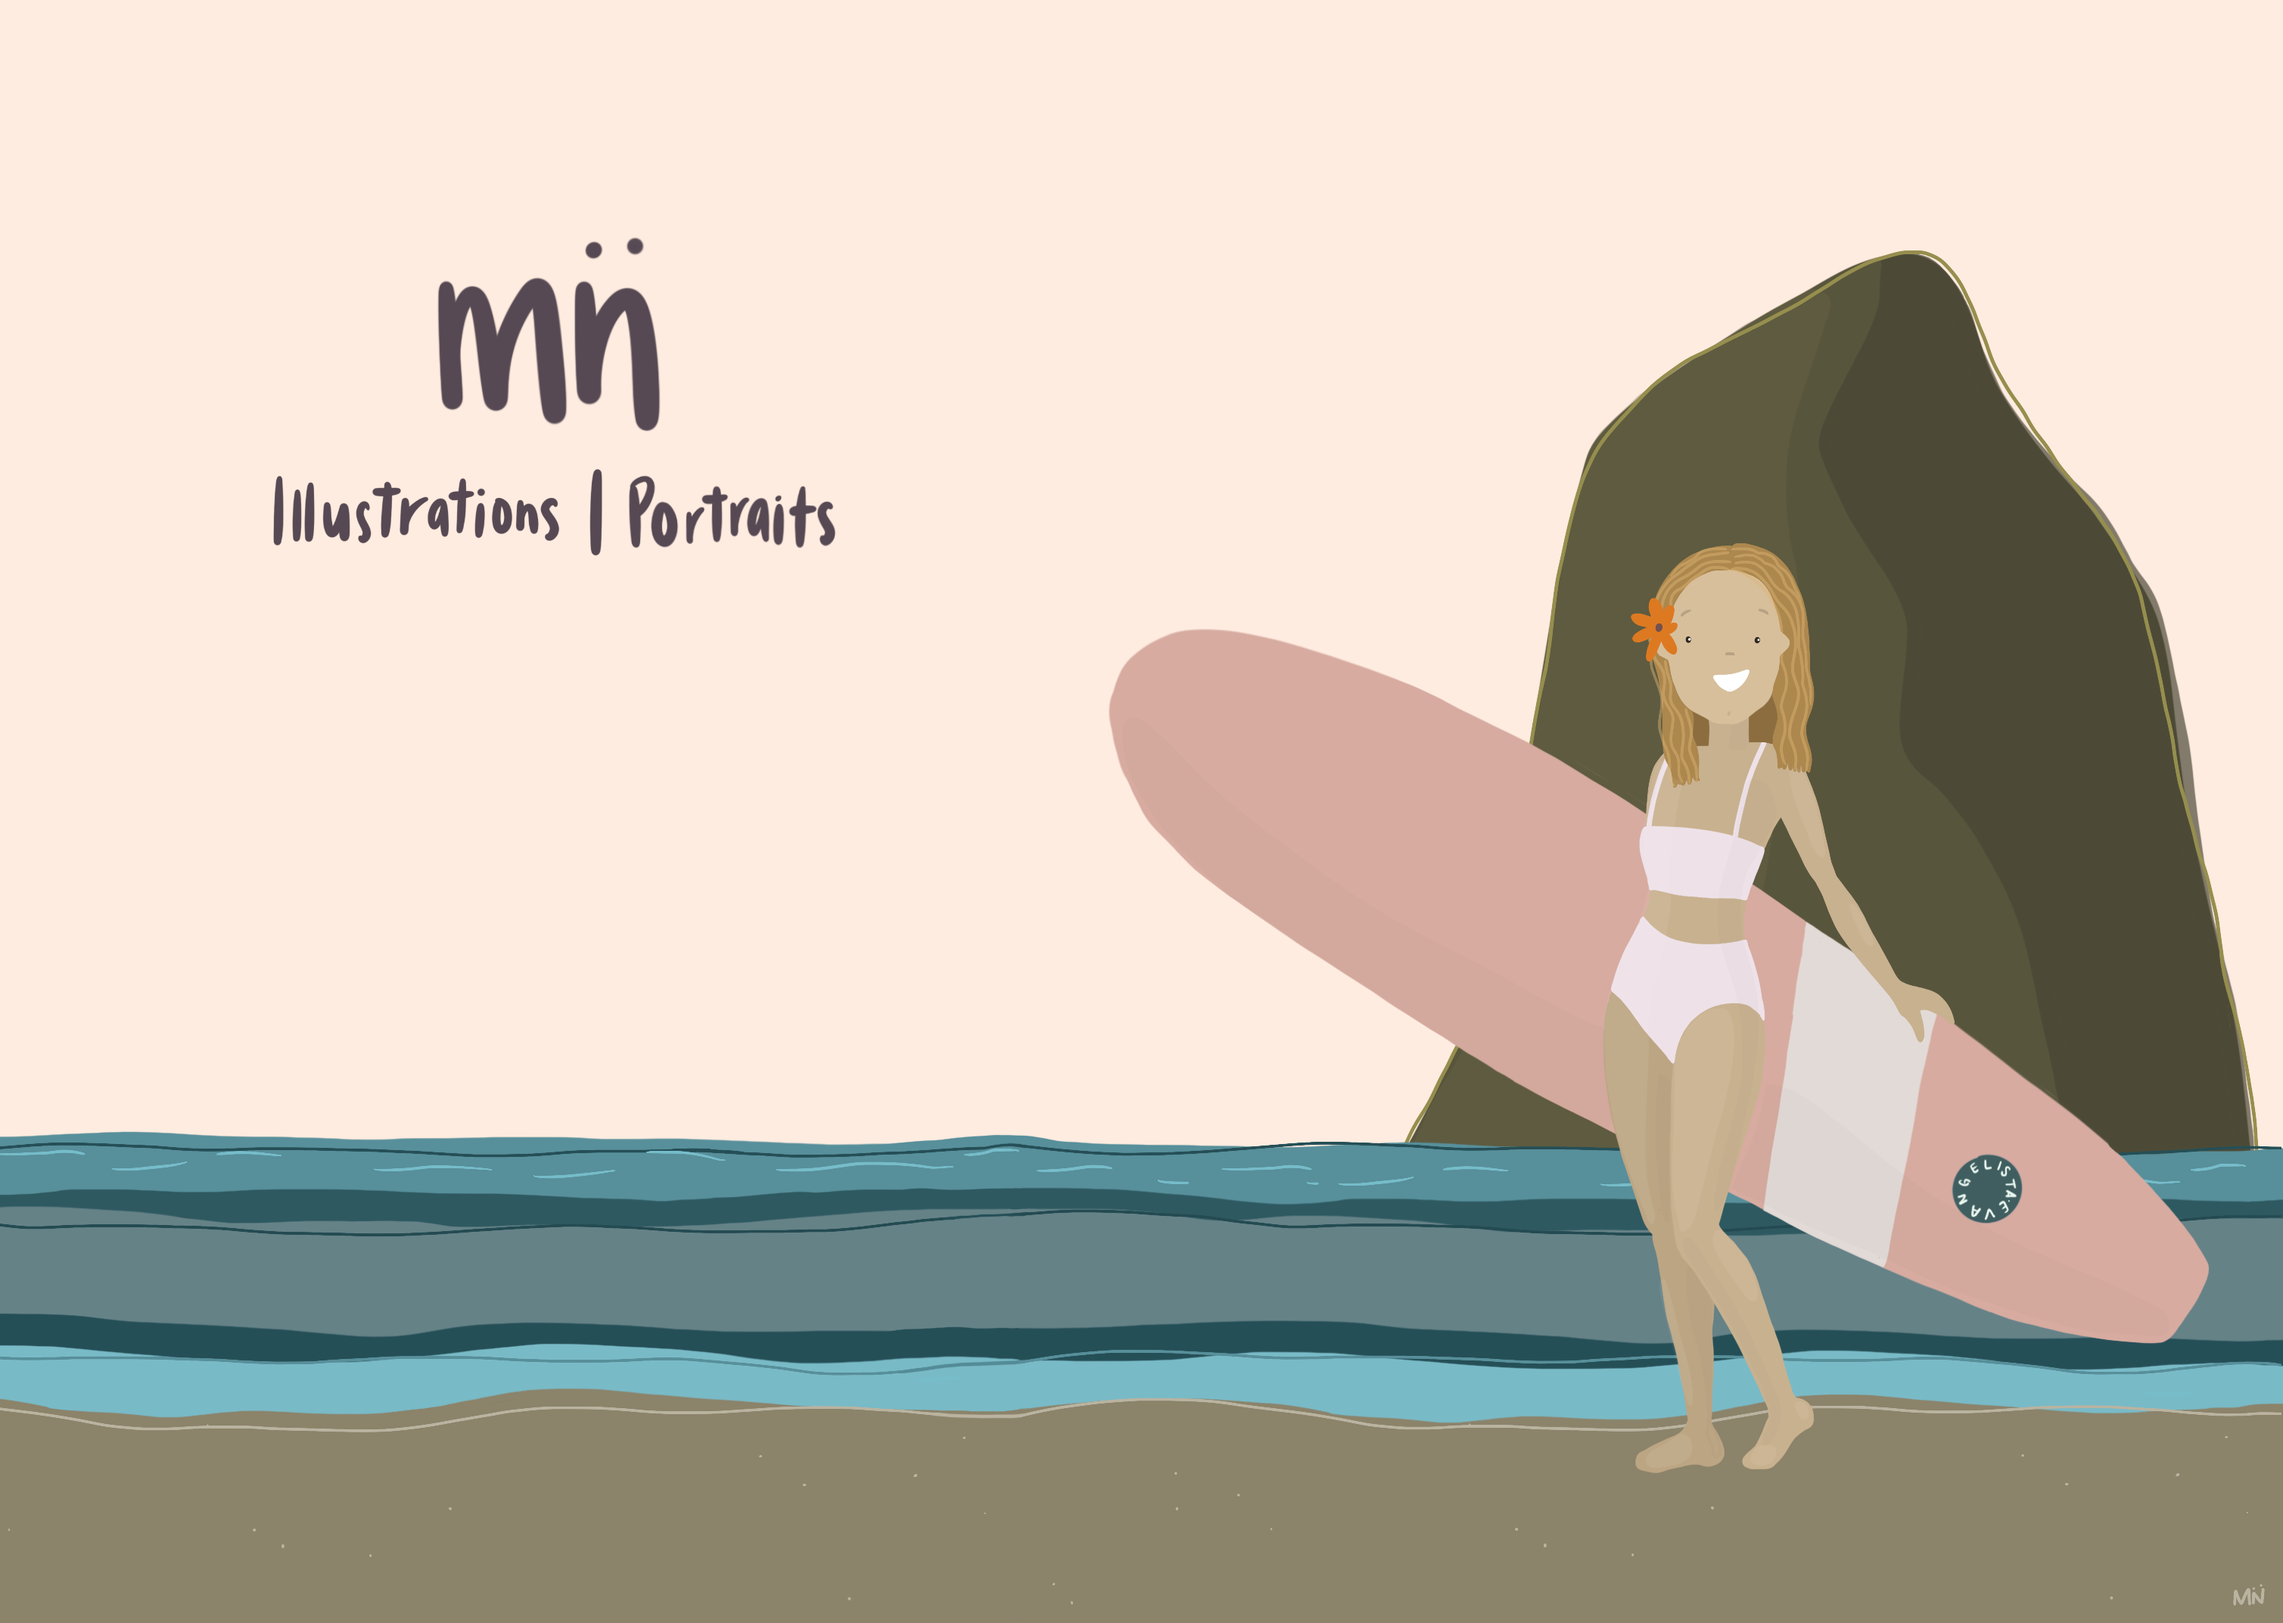
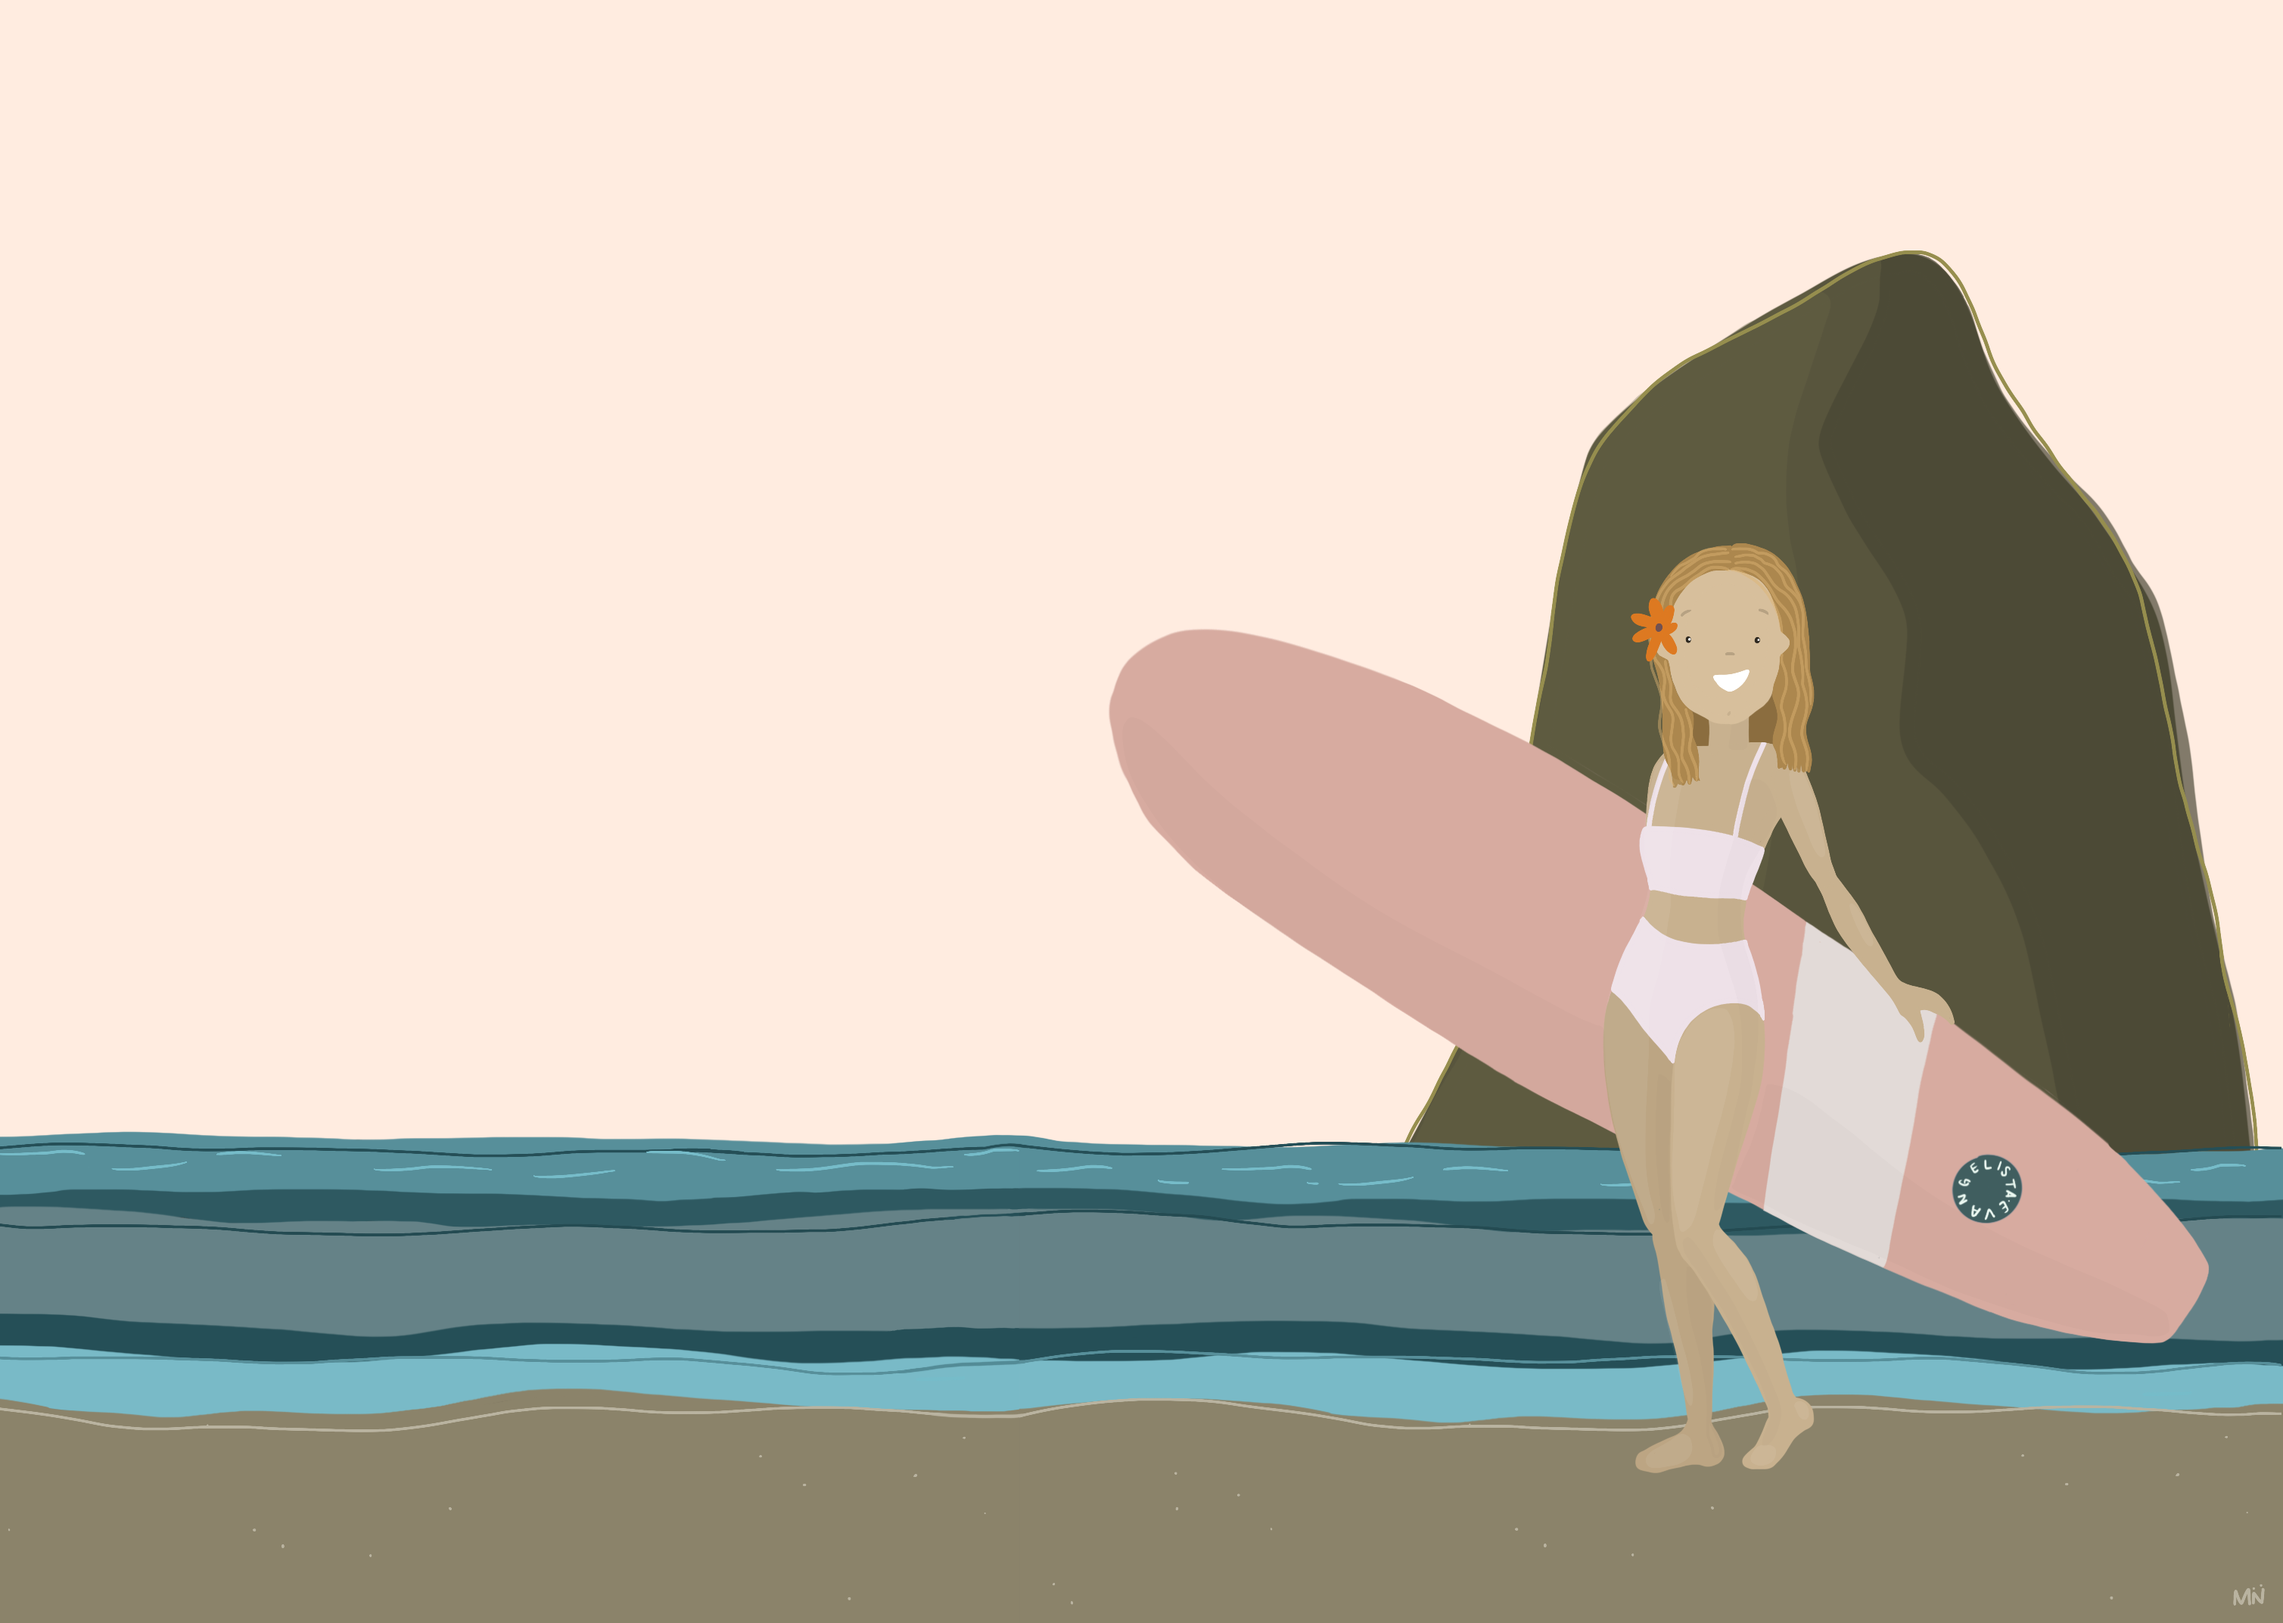
nav & styling continued

Changed region(s): [[0.0935, 0.1249, 0.3739, 0.3436]]

diff --git a/ui/src/App.tsx b/ui/src/App.tsx
@@ -1,11 +1,25 @@
 import React from "react";
+// Routing
+import { Routes, Route } from "react-router-dom";
+// Components
+import About from "./components/About";
+import Home from "./components/Home";
 import Navbar from "./components/Navbar";
+import Portfolio from "./components/Portfolio";
+import Prices from "./components/Prices";
+// Styles
 import "./styles/App.module.css";
 
 const App = (): JSX.Element => {
   return (
     <div className="App">
       <Navbar />
+      <Routes>
+        <Route path="/" element={<Home />} />
+        <Route path="/portfolio" element={<Portfolio />} />
+        <Route path="/prices" element={<Prices />} />
+        <Route path="/about" element={<About />} />
+      </Routes>
     </div>
   );
 };

diff --git a/ui/src/components/Navbar.tsx b/ui/src/components/Navbar.tsx
@@ -1,14 +1,27 @@
 import React from "react";
+// Styles
 import "../styles/Navbar.module.css";
+// Routing
+import { Link } from "react-router-dom";
+import LogoOnPage from "./LogoOnPage";
 
 const Navbar = (): JSX.Element => {
   return (
     <nav>
+      <LogoOnPage />
       <ul>
-        <li>Home</li>
-        <li>Portfolio</li>
-        <li>Prices</li>
-        <li>About</li>
+        <li>
+          <Link to="/">Home</Link>
+        </li>
+        <li>
+          <Link to="/portfolio">Portfolio</Link>
+        </li>
+        <li>
+          <Link to="/prices">Prices</Link>
+        </li>
+        <li>
+          <Link to="/about">About</Link>
+        </li>
       </ul>
     </nav>
   );

diff --git a/ui/src/components/Prices.tsx b/ui/src/components/Prices.tsx
@@ -1,0 +1,27 @@
+import React from "react";
+// Images
+import priceListImg from "../images/price-list.png";
+// TS
+import { IImageProperties } from "../ts/interfaces";
+// Styles
+import "../styles/Prices.module.css";
+
+const Prices = (): JSX.Element => {
+  const logoProperties: IImageProperties = {
+    src: priceListImg,
+    alt: "Price list",
+  };
+  return (
+    <>
+      <div className="price-list-img-container">
+        <img
+          className="price-list-img"
+          src={logoProperties.src}
+          alt={logoProperties.alt}
+        />
+      </div>
+    </>
+  );
+};
+
+export default Prices;

diff --git a/ui/src/components/LogoOnPage.tsx b/ui/src/components/LogoOnPage.tsx
@@ -1,0 +1,25 @@
+import React from "react";
+// TypeScript
+import { IImageProperties } from "../ts/interfaces";
+import logoImg from "../images/logo-on-page2.png";
+// Styles
+import "../styles/LogoOnPage.module.css";
+
+const LogoOnPage = (): JSX.Element => {
+  const logoProperties: IImageProperties = {
+    src: logoImg,
+    alt: "MN Illustration logo",
+  };
+
+  return (
+    <div>
+      <img
+        className="logo-img"
+        src={logoProperties.src}
+        alt={logoProperties.alt}
+      />
+    </div>
+  );
+};
+
+export default LogoOnPage;

diff --git a/ui/src/styles/Navbar.module.scss b/ui/src/styles/Navbar.module.scss
@@ -1,16 +1,21 @@
 nav {
-  position: absolute;
-  top: 50;
-}
-
-ul {
   display: flex;
   flex-direction: column;
-  gap: 1rem;
-}
-
-li {
-  text-decoration: none;
-  color: #564953;
-  list-style-type: none;
+  align-items: center;
+  position: absolute;
+  top: 17%;
+  left: 13%;
+  & ul {
+    display: flex;
+    flex-direction: column;
+    gap: 1.2rem;
+    & li {
+      text-decoration: none;
+      list-style-type: none;
+      & a {
+        color: #564953;
+        text-decoration: none;
+      }
+    }
+  }
 }

diff --git a/ui/src/styles/App.module.scss b/ui/src/styles/App.module.scss
@@ -1,3 +1,8 @@
+// Palette Colors:
+$chosen-purple: #564953;
+$chosen-pink: #d7aba0;
+$chosen-lime: #968e4e;
+
 html {
   box-sizing: border-box;
 }
@@ -8,13 +13,13 @@ html {
 }
 
 p {
-  color: white;
+  color: $chosen-purple;
 }
 
 body {
-  background-image: url("../images/background-image.png");
+  background-image: url("../images/background-image2.png");
   background-repeat: no-repeat;
   background-size: cover;
   background-attachment: fixed;
-  background-position: center;
+  background-position: right;
 }

diff --git a/ui/src/index.tsx b/ui/src/index.tsx
@@ -1,11 +1,14 @@
 import React from "react";
-import ReactDOM from "react-dom";
-import App from "./App";
 import reportWebVitals from "./reportWebVitals";
+import ReactDOM from "react-dom";
+import { BrowserRouter } from "react-router-dom";
+import App from "./App";
 
 ReactDOM.render(
   <React.StrictMode>
-    <App />
+    <BrowserRouter>
+      <App />
+    </BrowserRouter>
   </React.StrictMode>,
   document.getElementById("root")
 );

diff --git a/ui/src/components/About.tsx b/ui/src/components/About.tsx
@@ -1,0 +1,16 @@
+import React from "react";
+
+const About = (): JSX.Element => {
+  return (
+    <>
+      <p>
+        Lorem ipsum dolor, sit amet consectetur adipisicing elit. Laborum
+        provident animi saepe minus, atque molestiae vel neque earum, quidem
+        corporis ipsa dolore perspiciatis, recusandae repudiandae. Voluptatibus
+        sequi ex architecto dolorem!
+      </p>
+    </>
+  );
+};
+
+export default About;

diff --git a/ui/src/styles/Navbar.module.css b/ui/src/styles/Navbar.module.css
@@ -1,16 +1,21 @@
 nav {
-  position: absolute;
-  top: 50;
-}
-
-ul {
   display: flex;
   flex-direction: column;
-  gap: 1rem;
+  align-items: center;
+  position: absolute;
+  top: 17%;
+  left: 13%;
 }
-
-li {
+nav ul {
+  display: flex;
+  flex-direction: column;
+  gap: 1.2rem;
+}
+nav ul li {
   text-decoration: none;
-  color: #564953;
   list-style-type: none;
+}
+nav ul li a {
+  color: #564953;
+  text-decoration: none;
 }

diff --git a/ui/src/styles/App.module.css b/ui/src/styles/App.module.css
@@ -9,13 +9,13 @@ html {
 }
 
 p {
-  color: white;
+  color: #564953;
 }
 
 body {
-  background-image: url("../images/background-image.png");
+  background-image: url("../images/background-image2.png");
   background-repeat: no-repeat;
   background-size: cover;
   background-attachment: fixed;
-  background-position: center;
+  background-position: right;
 }

diff --git a/ui/src/styles/Prices.module.css b/ui/src/styles/Prices.module.css
@@ -1,0 +1,9 @@
+.price-list-img-container {
+  width: 100vh;
+  display: flex;
+}
+
+.price-list-img {
+  width: 10vh;
+  max-width: 100%;
+}

diff --git a/ui/src/styles/Prices.module.scss b/ui/src/styles/Prices.module.scss
@@ -1,0 +1,9 @@
+.price-list-img-container {
+  width: 100vh;
+  display: flex;
+}
+
+.price-list-img {
+  width: 10vh;
+  max-width: 100%;
+}
